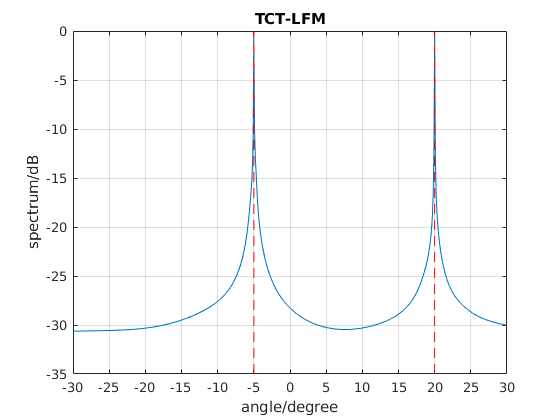
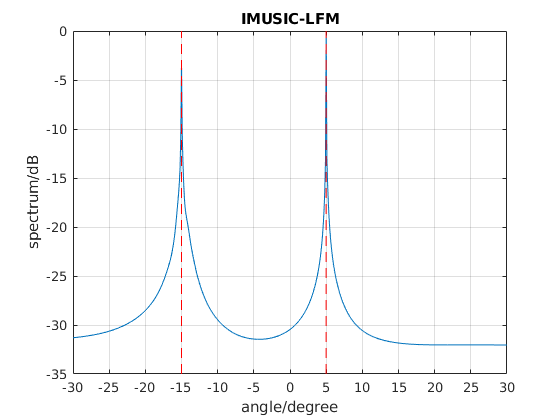
update fc & bandwidth

diff --git a/IMUSIC.m b/IMUSIC.m
@@ -1,60 +1,75 @@
-function [theta, spectrum] = IMUSIC()
-    SNR = 15;
-    sensorNum = 8;
-    theta_S = [-20; 10];
-    sourceNum = length(theta_S);
-%----Signal bandwidth: 4MHz, center freq: 10MHz fs: 10MHz-----%
-    f_begin = 8e6;
-    f_end = 12e6;
-    fc = (f_begin + f_end)/2;
-    bandwidth = f_end - f_begin;
-    fs = 2*bandwidth;
-    narrowBandwidth = 1e2;
-    narrowBandNum = bandwidth/narrowBandwidth;
-    
-    freqSnapshots = 100;
-    nFFT = 64;
-    
-    
-    c = 3e8;
-    Ts = 1/fs;
-    snapshots = freqSnapshots*nFFT;
-    Ns = Ts*(0: snapshots - 1);
-    margin = (c/f_end)/2;
-    distance = margin*(0: sensorNum - 1)';
-    
-    receivedData = zeros(sensorNum, snapshots);
-    manifoldMat = zeros(sensorNum, sourceNum);
-    for bandNum = 1: narrowBandNum
-        f = f_begin + (bandNum - 1)*narrowBandwidth;
-        signalMat = [exp(1j*2*pi*f*Ns); exp(1j*2*pi*f*Ns)];
-        for col = 1: sourceNum
-            manifoldMat(:, col) = exp(-1j*2*pi*f*((distance*sind(theta_S(col)))/c));
-        end
-        receivedData = receivedData + manifoldMat*signalMat;
+SNR = 15;
+sensorNum = 8;
+theta_S = [-20, 13];
+sourceNum = length(theta_S);
+
+f_begin = [600e6, 1000e6];
+f_end = [1400e6, 1400e6];
+fc = 1000e6;
+bandwidth = f_end - f_begin;
+fs = 2*max(bandwidth);
+narrowBandwidth = 1e7;
+narrowBandNum = bandwidth/narrowBandwidth;
+
+freqSnapshots = 100;
+nFFT = 256;
+snapshots = freqSnapshots*nFFT;
+Ts = (1/fs)*(0: snapshots - 1)' + 0.005;
+
+c = 3e8;
+margin = (c/max(f_end))/2;
+
+receivedData = zeros(sensorNum, snapshots);
+for n = 1: sourceNum
+    for bandNum = 1: narrowBandNum(sourceNum)
+        f = f_begin(sourceNum) + (bandNum - 1)*narrowBandwidth;
+        steerVec = exp(-1j*2*pi*f*((margin*(0: sensorNum - 1)'*sind(theta_S(n))/c)));
+        signalVec = exp(1j*2*pi*f*Ts');
+        receivedData = receivedData + steerVec*signalVec;
     end
-    receivedData = awgn(receivedData, SNR, 'measured');
-    receivedData = receivedData.*exp(-1j*2*pi*fc*Ns);
-    
-    dataSet = zeros(sensorNum, freqSnapshots, nFFT);
-    for slice = 1: freqSnapshots
-        dataSlice = receivedData(:, (slice - 1)*nFFT + 1: slice*nFFT);
-        dataSlice = fft(dataSlice, nFFT, 2);
-        dataSet(:, slice, :) = dataSlice;
-    end
-    
-    theta = (-30: 0.1: 30)';
-    spectrum = zeros(size(theta, 1), nFFT);
-    for freqPos = 1: nFFT
-        if freqPos <= nFFT/2
-            f = fc + (freqPos - 1)*fs/nFFT;
-        else
-            f = (fc - fs) + (freqPos - 1)*fs/nFFT;
-        end
-        [~, narrowBandSpec] = MUSIC(dataSet(:, :, freqPos), f, sourceNum, sensorNum, margin);
-%         spectrum = spectrum + narrowBandSpec;
-        spectrum(:, freqPos) = narrowBandSpec;
-    end
-%     spectrum = spectrum/nFFT;
-    
 end
+
+receivedData = awgn(receivedData, SNR, 'measured');
+receivedData = receivedData.*exp(-1j*2*pi*fc*Ts');
+
+dataSet = zeros(sensorNum, freqSnapshots, nFFT);
+for slice = 1: freqSnapshots
+    dataSlice = receivedData(:, (slice - 1)*nFFT + 1: slice*nFFT);
+    dataSlice = fft(dataSlice, nFFT, 2);
+    dataSet(:, slice, :) = dataSlice;
+end
+
+theta = (-30: 0.1: 30)';
+spectrum = zeros(size(theta));
+for freqBin = 1: nFFT
+    if freqBin <= nFFT/2
+        f = fc + (freqBin - 1)*fs/nFFT;
+    else
+        f = (fc - fs) + (freqBin - 1)*fs/nFFT;
+    end
+    data = dataSet(:, :, freqBin);
+    covMat = data*data'/freqSnapshots;
+    [eigVecs, eigVals] = eig(covMat);
+    eigVals = diag(eigVals);
+    [eigVals, index] = sort(eigVals);
+    sourceNum = AIC(freqSnapshots, sensorNum, flip(eigVals));
+    noiseSubspace = eigVecs(:, index(1: sensorNum - sourceNum));
+    for n = 1: length(theta)
+        steerVec = exp(-1j*2*pi*f*(margin*(0: sensorNum - 1)'*sind(theta(n)))/c);
+        spectrum(n) = spectrum(n) + (steerVec'*steerVec)./...
+                        (steerVec'*(noiseSubspace*noiseSubspace')*steerVec);
+    end
+end
+spectrum = spectrum./nFFT;
+
+plot(theta, 10*log10(abs(spectrum)/max(abs(spectrum))))
+grid on
+hold on
+for n = 1: length(theta_S)
+    plot([theta_S(n), theta_S(n)], get(gca, 'YLim'), '--r')
+end
+hold off
+set(gca, 'XTICK', -30: 5: 30)
+xlabel('angle/degree')
+ylabel('spectrum/dB')
+title('IMUSIC')

diff --git a/IMUSIC_LFM.m b/IMUSIC_LFM.m
@@ -3,14 +3,14 @@ sensorNum = 8;
 theta_S = [-15, 5];
 sourceNum = length(theta_S);
 
-f_begin = [800e6, 900e6];
-f_end = [1200e6, 1500e6];
+f_begin = [600e6, 1000e6];
+f_end = [1400e6, 1400e6];
 fc = 1000e6;
 bandwidth = f_end - f_begin;
 fs = 2*max(bandwidth);
 
 freqSnapshots = 100;
-nFFT = 128;
+nFFT = 256;
 snapshots = freqSnapshots*nFFT;
 Ts = (1/fs)*(0: snapshots - 1)' + 0.005;
 
@@ -28,7 +28,7 @@ for m = 1: sensorNum
     end
 end
 receivedData = awgn(receivedData, SNR, 'measured');
-receivedData = receivedData.*exp(-1j*2*pi*fc*Ts).';
+receivedData = receivedData.*exp(-1j*2*pi*fc*Ts');
 
 dataSet = zeros(sensorNum, freqSnapshots, nFFT);
 for slice = 1: freqSnapshots
@@ -38,19 +38,20 @@ for slice = 1: freqSnapshots
 end
 
 theta = (-30: 0.1: 30)';
-spectrum = zeros(length(theta), 1);
+spectrum = zeros(size(theta));
 for freqBin = 1: nFFT
-    data = dataSet(:, :, freqBin);
-    covMat = data*data'/freqSnapshots;
-    [eigVecs, eigVals] = eig(covMat);
-    eigVals = diag(eigVals);
-    [~, index] = sort(eigVals);
-    noiseSubspace = eigVecs(:, index(1: sensorNum - sourceNum));
     if freqBin <= nFFT/2
         f = fc + (freqBin - 1)*fs/nFFT;
     else
         f = (fc - fs) + (freqBin - 1)*fs/nFFT;
     end
+    data = dataSet(:, :, freqBin);
+    covMat = data*data'/freqSnapshots;
+    [eigVecs, eigVals] = eig(covMat);
+    eigVals = diag(eigVals);
+    [eigVals, index] = sort(eigVals);
+    sourceNum = AIC(freqSnapshots, sensorNum, flip(eigVals));
+    noiseSubspace = eigVecs(:, index(1: sensorNum - sourceNum));
     for n = 1: length(theta)
         steerVec = exp(-1j*2*pi*f*(margin*(0: sensorNum - 1)'*sind(theta(n)))/c);
         spectrum(n) = spectrum(n) + ...
@@ -62,11 +63,11 @@ spectrum = spectrum/nFFT;
 plot(theta, 10*log10(abs(spectrum)/max(abs(spectrum))))
 grid on
 hold on
-for n = 1: sourceNum
+for n = 1: length(theta_S)
     plot([theta_S(n), theta_S(n)], get(gca, 'YLim'), '--r')
 end
 hold off
 set(gca, 'XTICK', -30: 5: 30)
 xlabel('angle/degree')
 ylabel('spectrum/dB')
-title('TCT-LFM')
+title('IMUSIC-LFM')

diff --git a/AIC.m b/AIC.m
@@ -1,0 +1,25 @@
+function sourceNum = AIC(snapshots, sensorNum, eigVals)
+%---sourceNum: the number of sources using AIC method---%
+%---snapshots: the number of snapshots------------------%
+%---sensorNum: the number of array elements-------------% 
+%---eigVals: eigen values with descendant sort--------%
+    t = inf;                
+    for sourceNum = 1: sensorNum - 1
+        num = 0;
+        den = 1;
+        for iter = sourceNum + 1: sensorNum
+            num = num + eigVals(iter);
+            den = den * eigVals(iter);
+        end
+        Lambda = (num/(sensorNum - sourceNum)) / den^(1/(sensorNum - sourceNum));
+        etrpy = 2*snapshots*(sensorNum - sourceNum)*log(Lambda) + ...
+                2*sourceNum*(2*sensorNum - sourceNum);    % AIC entropy
+%-------find minimum loss entropy----------------%
+        if etrpy > t
+            break;
+        else
+            t = etrpy;
+        end
+    end
+    sourceNum = sourceNum - 1;          % fix n
+end

diff --git a/README.md b/README.md
@@ -1,2 +1,3 @@
 # DOA-estimation
 DOA estimation source code
+http://dengyuhao.org/
